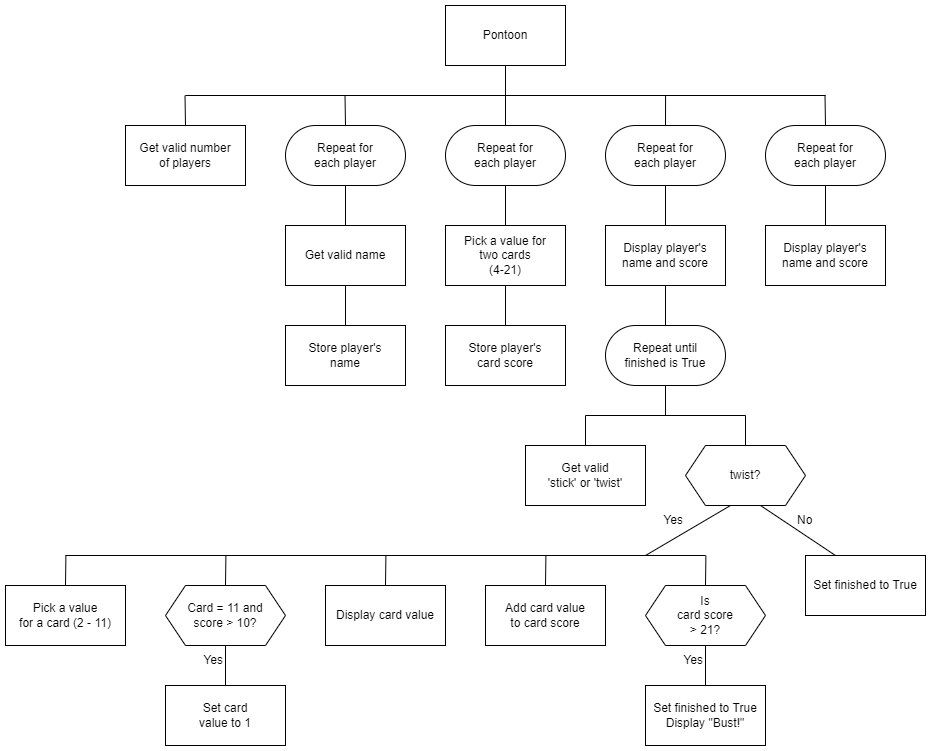
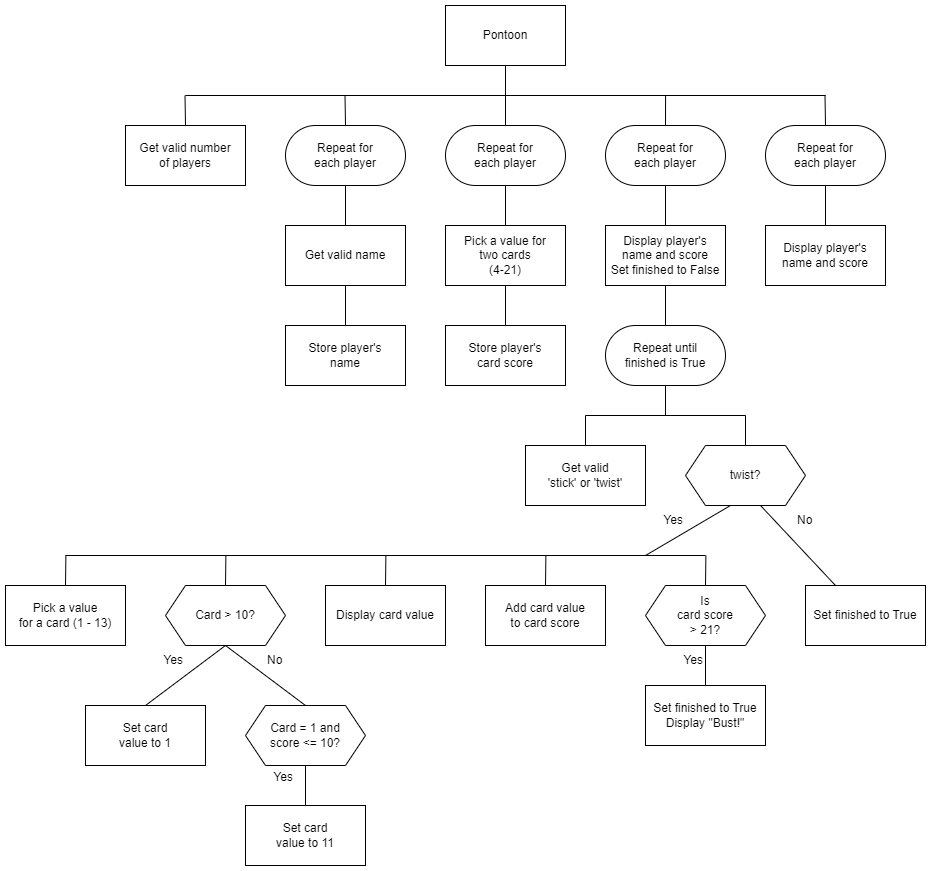
Updated

diff --git a/n5-cs/sdd/N5-SDD-Pontoon/README.md b/n5-cs/sdd/N5-SDD-Pontoon/README.md
@@ -21,19 +21,35 @@ Initialise total score
 initialise twist answer
 
 Loop 2 times
+
     Pick a random card value from 1 to 13
+    
+    If card value is > 10
+        Set card value to 10
+    
+    Else if card value is 1 and total score <= 10
+        Set card value to 11
+        
+    End if
+    
     Display card value
+    
     Add card value to total score
+    
 End loop
 
-Get stick or twist from user
+Get valid stick or twist from user
 
 Start conditional loop for twist and total < 21
 
-    Pick a random card value from 2 to 11
+    Pick a random card value from 1 to 13
     
-    If card value is 11 and total score > 10
-        Set card value to 1
+    If card value is > 10
+        Set card value to 10
+    
+    Else if card value is 1 and total score <= 10
+        Set card value to 11
+        
     End if
 
     Display card value
@@ -46,7 +62,7 @@ Start conditional loop for twist and total < 21
         Display "Bust!"
     End if
     
-    Get stick or twist from user
+    Get valid stick or twist from user
 
 End conditional loop
 
